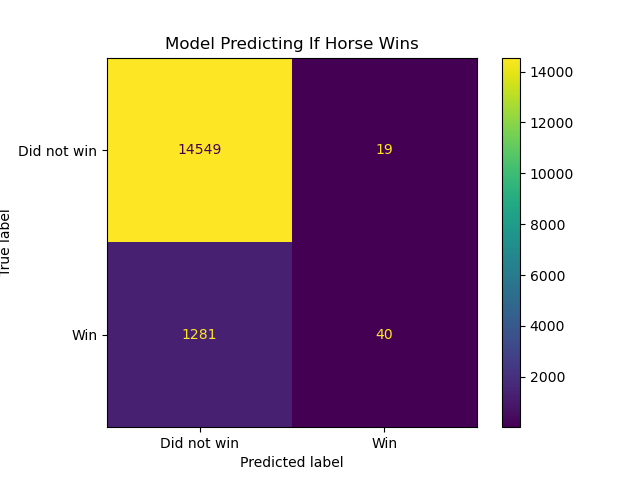
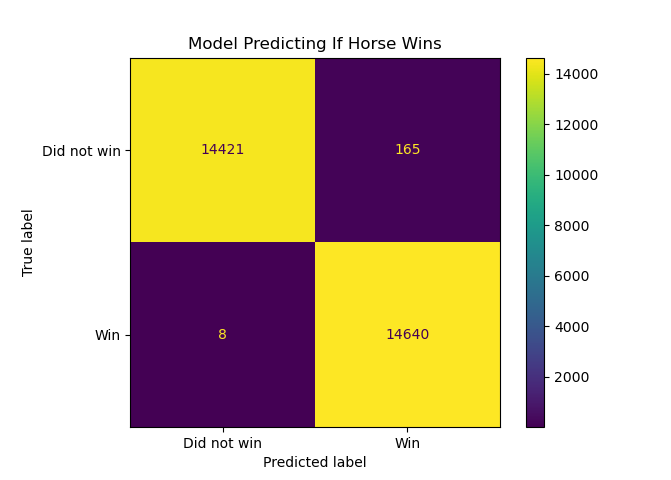
added oversampling to regression

diff --git a/Classification.py b/Classification.py
@@ -5,6 +5,7 @@ from sklearn.model_selection import train_test_split
 from sklearn.metrics import confusion_matrix
 from sklearn.metrics import ConfusionMatrixDisplay
 from sklearn.ensemble import RandomForestClassifier
+from imblearn.over_sampling import RandomOverSampler
 
 #read in data
 dataset = pd.read_csv('data/combined_data.csv', delimiter=',', encoding='latin-1')
@@ -14,8 +15,12 @@ labels = (dataset[['won']]).values.tolist()
 inputs = dataset.drop(columns=['Unnamed: 0', 'won', 'place_combination1', 'place_combination2'])
 labels = np.array(labels).squeeze()
 
+#oversample minority class so balanced
+ros = RandomOverSampler(random_state=0)
+inputs, labels = ros.fit_resample(inputs, labels)
+
 #split into 80-20 train test
-train_inputs, test_inputs, train_labels, test_labels = train_test_split(inputs, labels, test_size=0.2)
+train_inputs, test_inputs, train_labels, test_labels = train_test_split(inputs, labels, test_size=0.2, random_state=42)
 
 #create, train, and predict using model
 model = RandomForestClassifier().fit(train_inputs, train_labels)
